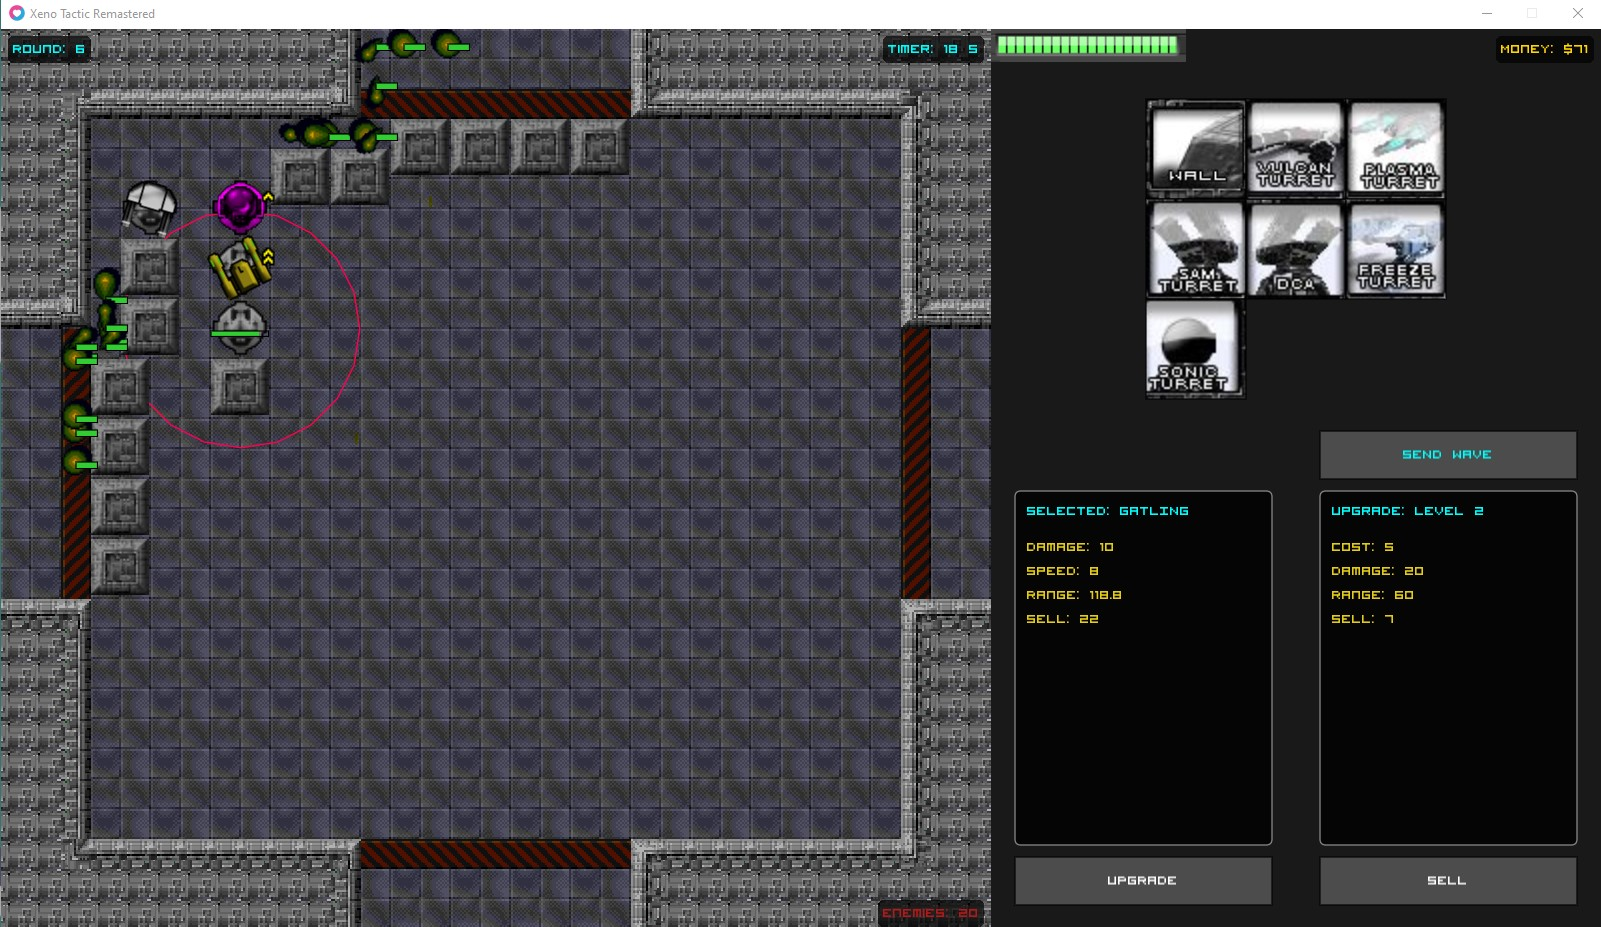
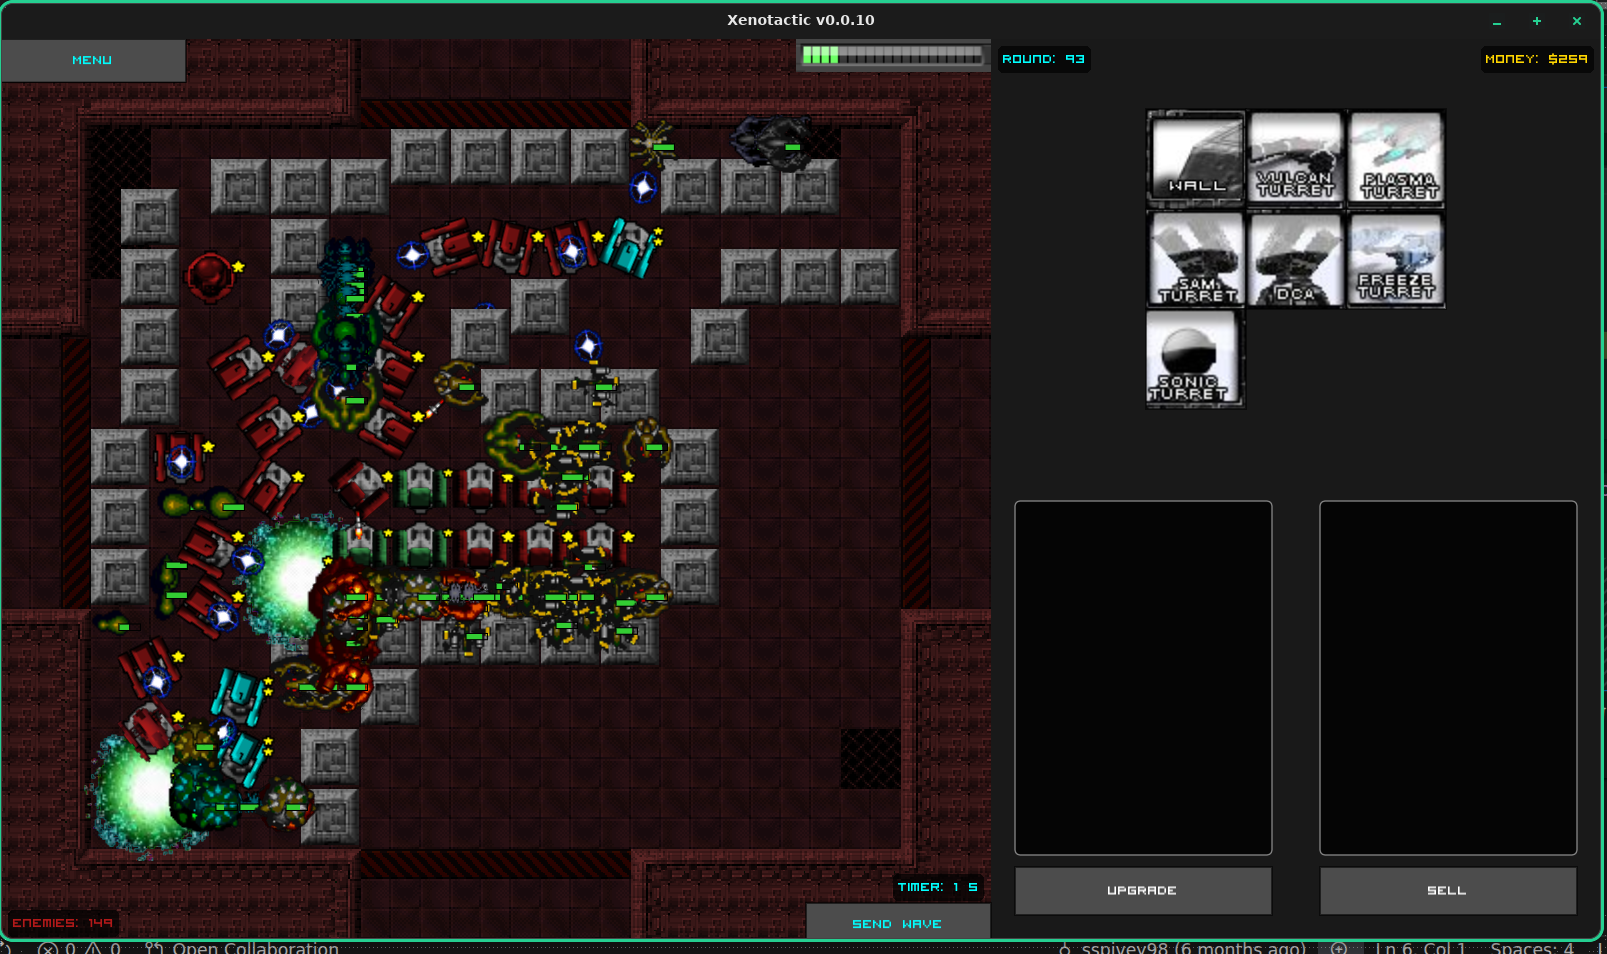
buff DCA + better changelog
- changelog of differences between original and this version
- updated sample
- buff DCA level 6 to be cheaper and more powerful
- bump version

diff --git a/README.md b/README.md
@@ -6,6 +6,18 @@ This is a remaster of the browser game, Xeno Tactic, in Love2d. I'm aiming to re
 ## Reference
 You can play the original game [here](https://www.newgrounds.com/portal/view/382321).
 
+## Differences from the original
+- Shift + Left Click can place multiple
+- User can send next wave before current wave is complete
+- DCA shoots 50% faster
+- password level unlock system
+- DCA level 6 has a significant buff with more damage, range, and lower cost
+- Helicopters in level 6 waves 50-100 have less health
+- Sonic turrets have a higher stun chance
+- splitters now add up to the parent enemy value, effectively doubling the value of a slime
+- selecting an enemy prioritizes the turret to target selected enemy
+- turrets have tooltips
+
 ## Developing
 It is highly recommend that you use the following extensions in `VS Code` or `VSCodium`:
 